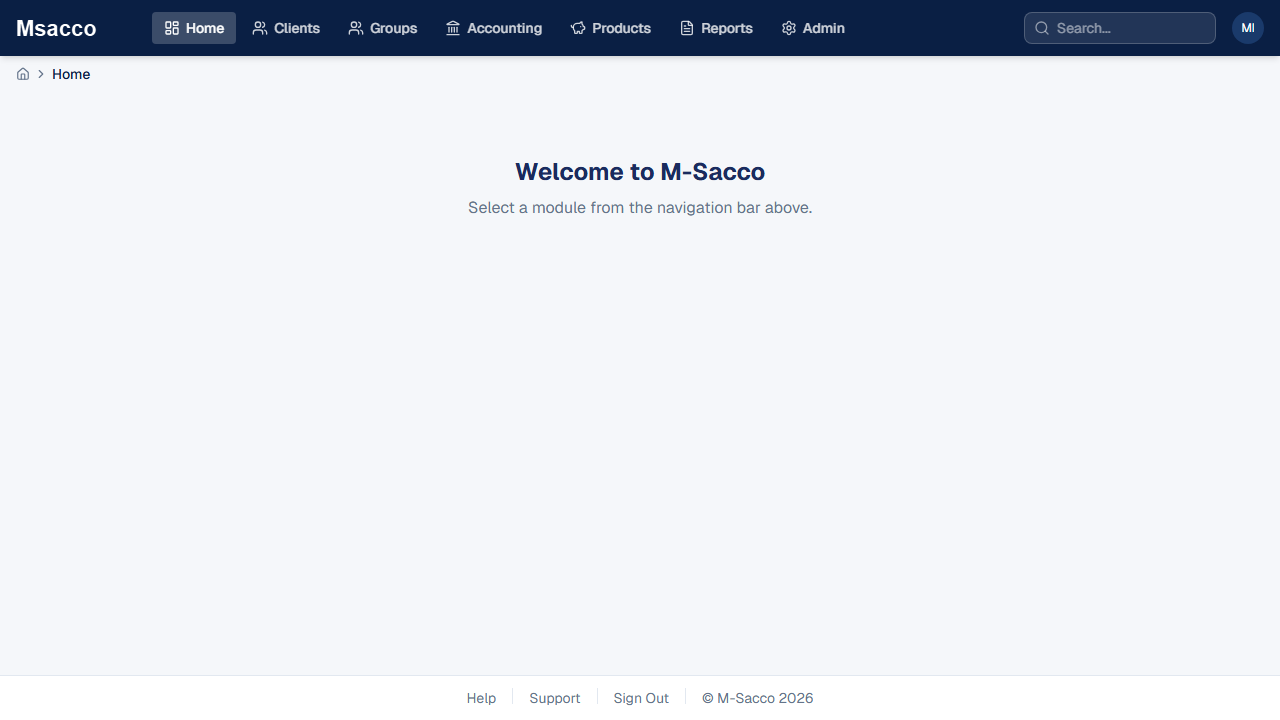
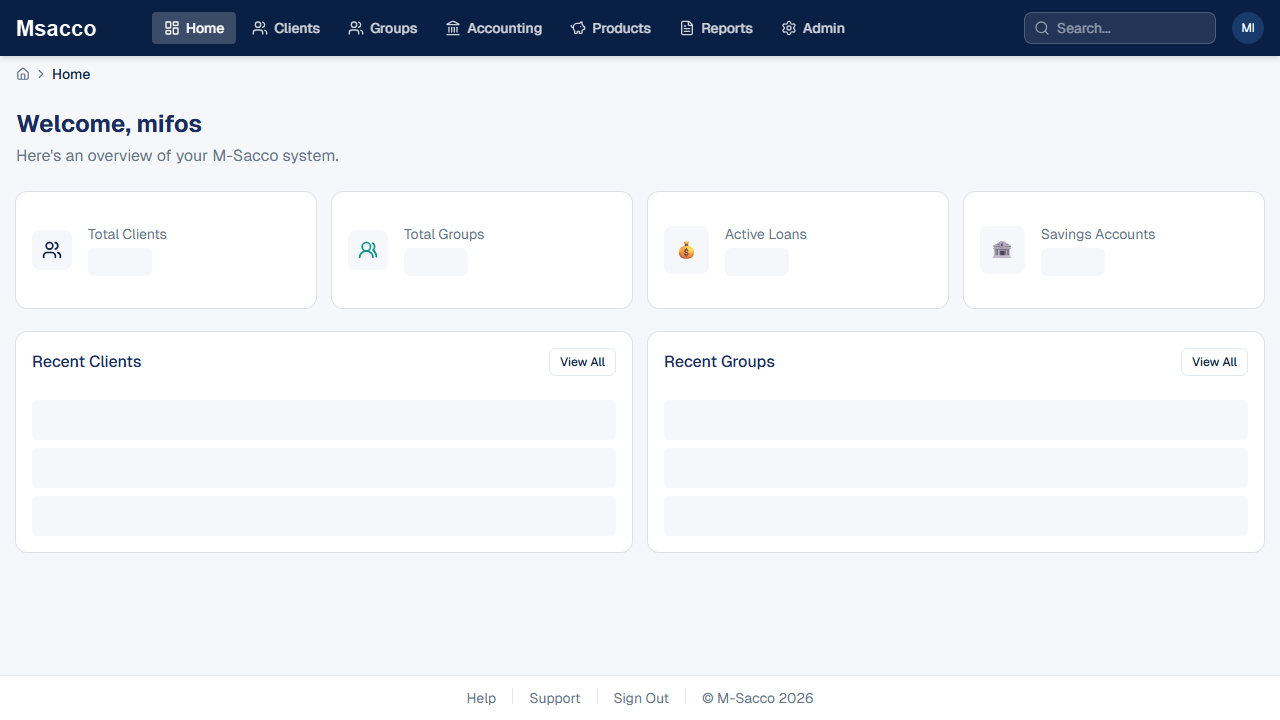
feat: Home dashboard with stats cards + recent activity
- Dashboard stats: Total Clients, Total Groups, Active Loans, Savings
- Recent Clients and Recent Groups tables with View links
- Clickable stat cards navigate to module pages
- Replaces placeholder home page

diff --git a/src/features/home/pages/home-page.tsx b/src/features/home/pages/home-page.tsx
@@ -1,0 +1,181 @@
+import { useNavigate } from 'react-router';
+import { Users, UsersRound, Eye } from 'lucide-react';
+import { Card, CardContent, CardHeader, CardTitle } from '@/components/ui/card';
+import { Button } from '@/components/ui/button';
+import {
+  Table, TableBody, TableCell, TableHead, TableHeader, TableRow,
+} from '@/components/ui/table';
+import { Skeleton } from '@/components/ui/skeleton';
+import { useAuthStore } from '@/stores/auth-store';
+import { useDashboardStats, useRecentClients, useRecentGroups } from '../hooks/use-dashboard';
+
+export function HomePage() {
+  const navigate = useNavigate();
+  const username = useAuthStore((s) => s.credentials?.username);
+  const { data: stats, isLoading: statsLoading } = useDashboardStats();
+  const { data: recentClients, isLoading: clientsLoading } = useRecentClients();
+  const { data: recentGroups, isLoading: groupsLoading } = useRecentGroups();
+
+  return (
+    <div className="space-y-6">
+      <div>
+        <h1 className="text-2xl font-bold text-msacco-navy-heading">
+          Welcome, {username}
+        </h1>
+        <p className="text-msacco-text-muted mt-1">Here's an overview of your M-Sacco system.</p>
+      </div>
+
+      {/* Stats Cards */}
+      <div className="grid grid-cols-1 sm:grid-cols-2 lg:grid-cols-4 gap-4">
+        <StatCard
+          title="Total Clients"
+          value={stats?.clients.total}
+          loading={statsLoading}
+          icon={<Users className="h-5 w-5 text-msacco-navy" />}
+          onClick={() => navigate('/clients')}
+        />
+        <StatCard
+          title="Total Groups"
+          value={stats?.groups.total}
+          loading={statsLoading}
+          icon={<UsersRound className="h-5 w-5 text-msacco-teal" />}
+          onClick={() => navigate('/groups')}
+        />
+        <StatCard
+          title="Active Loans"
+          value={stats?.loans.total}
+          loading={statsLoading}
+          icon={<span className="text-lg">💰</span>}
+        />
+        <StatCard
+          title="Savings Accounts"
+          value={stats?.savings.total}
+          loading={statsLoading}
+          icon={<span className="text-lg">🏦</span>}
+        />
+      </div>
+
+      {/* Recent Activity */}
+      <div className="grid grid-cols-1 lg:grid-cols-2 gap-4">
+        {/* Recent Clients */}
+        <Card>
+          <CardHeader className="flex flex-row items-center justify-between pb-2">
+            <CardTitle className="text-base text-msacco-navy-heading">Recent Clients</CardTitle>
+            <Button variant="outline" size="sm" className="text-xs" onClick={() => navigate('/clients')}>
+              View All
+            </Button>
+          </CardHeader>
+          <CardContent>
+            {clientsLoading ? (
+              <div className="space-y-2">
+                {Array.from({ length: 3 }).map((_, i) => <Skeleton key={i} className="h-10 w-full" />)}
+              </div>
+            ) : (
+              <Table>
+                <TableHeader>
+                  <TableRow className="bg-msacco-page-bg">
+                    <TableHead className="text-xs">Name</TableHead>
+                    <TableHead className="text-xs">Branch</TableHead>
+                    <TableHead className="text-xs text-right">Action</TableHead>
+                  </TableRow>
+                </TableHeader>
+                <TableBody>
+                  {recentClients?.map((c) => (
+                    <TableRow key={c.id}>
+                      <TableCell className="text-sm font-medium">{c.displayName}</TableCell>
+                      <TableCell className="text-sm">{c.officeName}</TableCell>
+                      <TableCell className="text-right">
+                        <Button
+                          variant="ghost"
+                          size="sm"
+                          className="h-7 text-xs text-msacco-navy"
+                          onClick={() => navigate(`/clients/${c.id}`)}
+                        >
+                          <Eye className="h-3.5 w-3.5" />
+                        </Button>
+                      </TableCell>
+                    </TableRow>
+                  ))}
+                </TableBody>
+              </Table>
+            )}
+          </CardContent>
+        </Card>
+
+        {/* Recent Groups */}
+        <Card>
+          <CardHeader className="flex flex-row items-center justify-between pb-2">
+            <CardTitle className="text-base text-msacco-navy-heading">Recent Groups</CardTitle>
+            <Button variant="outline" size="sm" className="text-xs" onClick={() => navigate('/groups')}>
+              View All
+            </Button>
+          </CardHeader>
+          <CardContent>
+            {groupsLoading ? (
+              <div className="space-y-2">
+                {Array.from({ length: 3 }).map((_, i) => <Skeleton key={i} className="h-10 w-full" />)}
+              </div>
+            ) : (
+              <Table>
+                <TableHeader>
+                  <TableRow className="bg-msacco-page-bg">
+                    <TableHead className="text-xs">Group Name</TableHead>
+                    <TableHead className="text-xs">Branch</TableHead>
+                    <TableHead className="text-xs text-right">Action</TableHead>
+                  </TableRow>
+                </TableHeader>
+                <TableBody>
+                  {recentGroups?.map((g) => (
+                    <TableRow key={g.id}>
+                      <TableCell className="text-sm font-medium">{g.name}</TableCell>
+                      <TableCell className="text-sm">{g.officeName}</TableCell>
+                      <TableCell className="text-right">
+                        <Button
+                          variant="ghost"
+                          size="sm"
+                          className="h-7 text-xs text-msacco-navy"
+                          onClick={() => navigate(`/groups/${g.id}`)}
+                        >
+                          <Eye className="h-3.5 w-3.5" />
+                        </Button>
+                      </TableCell>
+                    </TableRow>
+                  ))}
+                </TableBody>
+              </Table>
+            )}
+          </CardContent>
+        </Card>
+      </div>
+    </div>
+  );
+}
+
+function StatCard({ title, value, loading, icon, onClick }: {
+  title: string;
+  value?: number;
+  loading: boolean;
+  icon: React.ReactNode;
+  onClick?: () => void;
+}) {
+  return (
+    <Card
+      className={onClick ? 'cursor-pointer hover:shadow-md transition-shadow' : ''}
+      onClick={onClick}
+    >
+      <CardContent className="flex items-center gap-4 p-4">
+        <div className="rounded-lg bg-msacco-page-bg p-2.5">
+          {icon}
+        </div>
+        <div>
+          <p className="text-sm text-msacco-text-muted">{title}</p>
+          {loading ? (
+            <Skeleton className="h-7 w-16 mt-1" />
+          ) : (
+            <p className="text-2xl font-bold text-msacco-navy-heading">{value ?? 0}</p>
+          )}
+        </div>
+      </CardContent>
+    </Card>
+  );
+}

diff --git a/src/features/home/api/dashboard-api.ts b/src/features/home/api/dashboard-api.ts
@@ -1,0 +1,36 @@
+import { api } from '@/config/api';
+
+export interface DashboardStats {
+  clients: { total: number };
+  groups: { total: number };
+  loans: { total: number; pending: number };
+  savings: { total: number };
+}
+
+export async function getDashboardStats(): Promise<DashboardStats> {
+  const [clients, groups] = await Promise.all([
+    api<{ totalFilteredRecords: number }>('/clients', { params: { paged: true, limit: 1, offset: 0 } }),
+    api<{ totalFilteredRecords: number }>('/groups', { params: { paged: true, limit: 1, offset: 0 } }),
+  ]);
+
+  return {
+    clients: { total: clients.totalFilteredRecords },
+    groups: { total: groups.totalFilteredRecords },
+    loans: { total: 0, pending: 0 },
+    savings: { total: 0 },
+  };
+}
+
+export function getRecentClients() {
+  return api<{ pageItems: Array<{ id: number; accountNo: string; displayName: string; officeName: string; status: { value: string } }> }>(
+    '/clients',
+    { params: { paged: true, limit: 5, offset: 0, orderBy: 'id', sortOrder: 'DESC' } }
+  ).then((r) => r.pageItems);
+}
+
+export function getRecentGroups() {
+  return api<{ pageItems: Array<{ id: number; accountNo: string; name: string; officeName: string; status: { value: string } }> }>(
+    '/groups',
+    { params: { paged: true, limit: 5, offset: 0, orderBy: 'id', sortOrder: 'DESC' } }
+  ).then((r) => r.pageItems);
+}

diff --git a/src/routes/index.tsx b/src/routes/index.tsx
@@ -31,6 +31,11 @@ const NotesTab = lazy(() =>
   import('@/features/clients/components/notes-tab').then((m) => ({ default: m.NotesTab }))
 );
 
+// Home
+const HomePage = lazy(() =>
+  import('@/features/home/pages/home-page').then((m) => ({ default: m.HomePage }))
+);
+
 // Groups
 const GroupListPage = lazy(() =>
   import('@/features/groups/pages/group-list-page').then((m) => ({ default: m.GroupListPage }))
@@ -75,10 +80,9 @@ export const router = createBrowserRouter([
           {
             path: '/home',
             element: (
-              <div className="text-center py-12">
-                <h1 className="text-2xl font-bold text-msacco-navy-heading">Welcome to M-Sacco</h1>
-                <p className="text-muted-foreground mt-2">Select a module from the navigation bar above.</p>
-              </div>
+              <SuspenseWrapper>
+                <HomePage />
+              </SuspenseWrapper>
             ),
           },
           {

diff --git a/src/features/home/hooks/use-dashboard.ts b/src/features/home/hooks/use-dashboard.ts
@@ -1,0 +1,26 @@
+import { useQuery } from '@tanstack/react-query';
+import { getDashboardStats, getRecentClients, getRecentGroups } from '../api/dashboard-api';
+
+export function useDashboardStats() {
+  return useQuery({
+    queryKey: ['dashboard', 'stats'],
+    queryFn: getDashboardStats,
+    staleTime: 60 * 1000,
+  });
+}
+
+export function useRecentClients() {
+  return useQuery({
+    queryKey: ['dashboard', 'recent-clients'],
+    queryFn: getRecentClients,
+    staleTime: 60 * 1000,
+  });
+}
+
+export function useRecentGroups() {
+  return useQuery({
+    queryKey: ['dashboard', 'recent-groups'],
+    queryFn: getRecentGroups,
+    staleTime: 60 * 1000,
+  });
+}

diff --git a/tests/playwright/specs/login.spec.ts b/tests/playwright/specs/login.spec.ts
@@ -42,6 +42,6 @@ test.describe('Login', () => {
     await page.click('button[type="submit"]');
 
     await page.waitForURL('**/home', { timeout: 15000 });
-    await expect(page.getByText('Welcome to M-Sacco')).toBeVisible();
+    await expect(page.getByText(/Welcome/)).toBeVisible();
   });
 });
